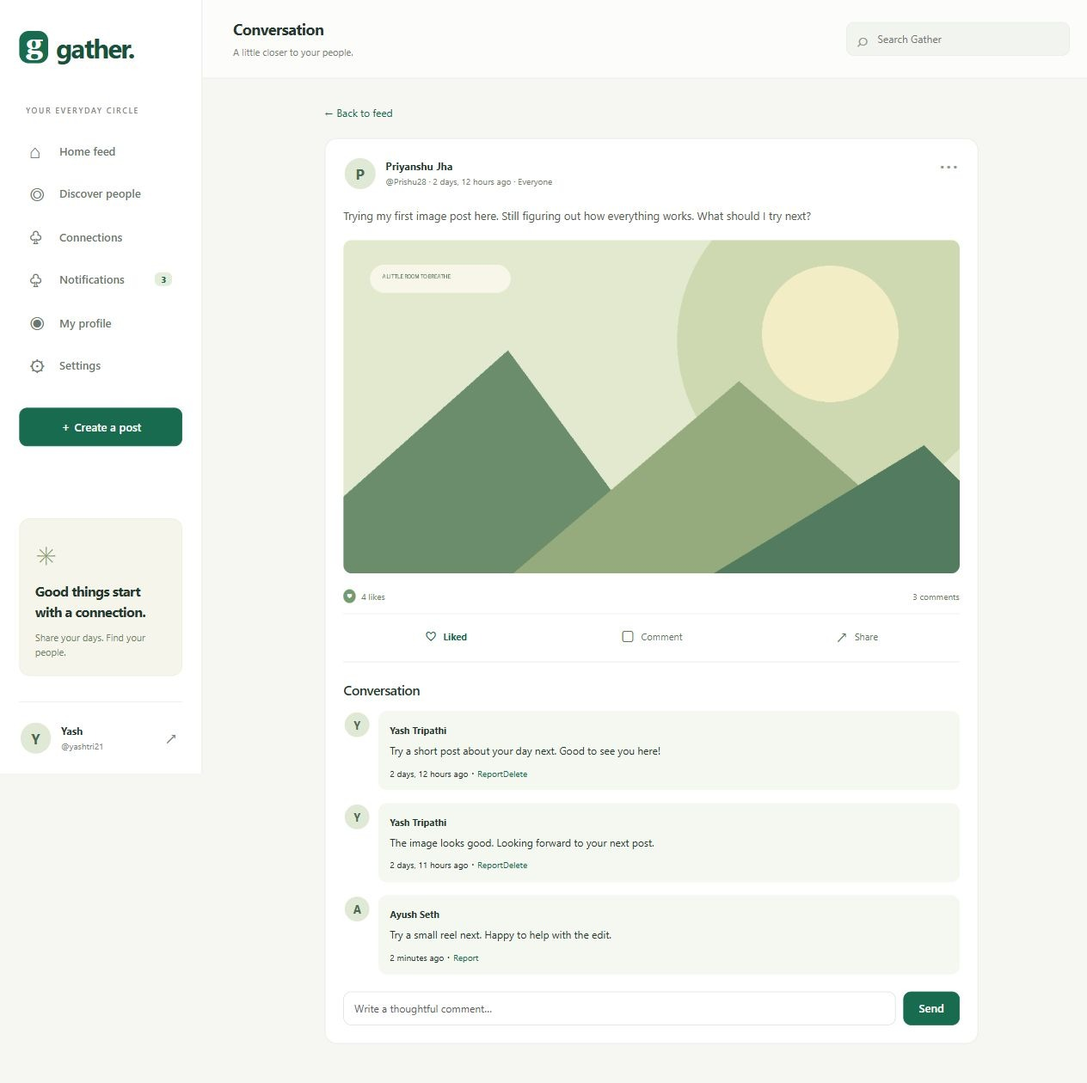
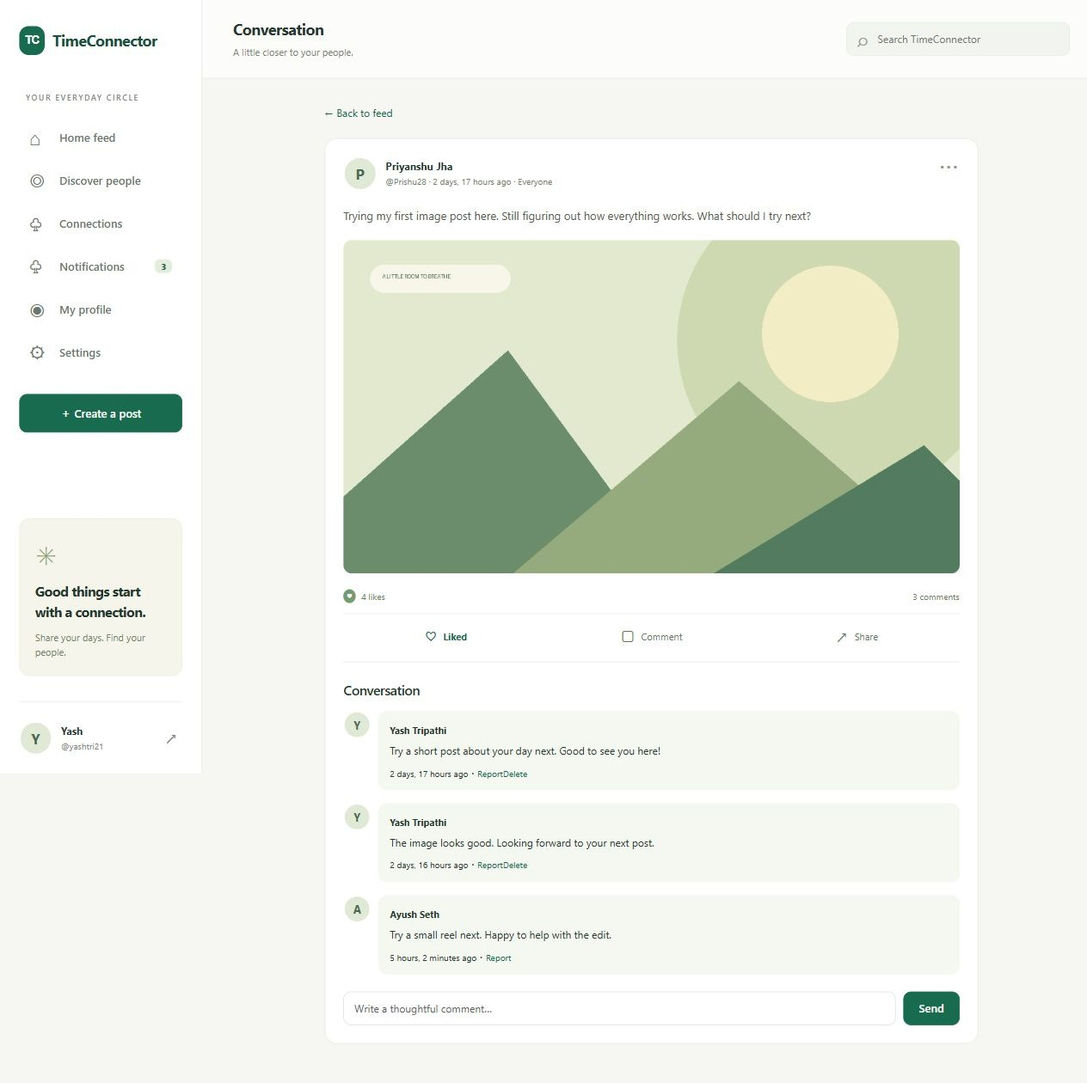
changes within the codes

diff --git a/Social Media Platform Django/static/css/app.css b/Social Media Platform Django/static/css/app.css
@@ -1,5 +1,5 @@
 :root{--green:#196b50;--green-dark:#10513c;--mint:#e9f2ec;--ink:#25382f;--muted:#7c877f;--line:#e5e9e3;--paper:#f6f7f3;--bs-primary:#196b50;--bs-link-color:#196b50;--bs-link-hover-color:#10513c}*{box-sizing:border-box}body{margin:0;background:var(--paper);color:var(--ink);font-family:Inter,"Segoe UI",sans-serif;font-size:14px;line-height:1.6}a{color:var(--green);text-decoration:none}a:hover{color:var(--green-dark)}button,input,textarea,select{font:inherit;outline-offset:4px}a{outline-offset:4px}button:focus-visible,a:focus-visible{outline:2px solid var(--green)}h1,h2,h3{letter-spacing:-.035em;font-weight:650}h1{font-size:30px}p{overflow-wrap:anywhere}.btn{border-radius:9px;font-weight:600;padding:9px 17px;font-size:13px}.btn-primary{background:var(--green);border-color:var(--green)}.btn-primary:hover,.btn-primary:active{background:var(--green-dark)!important;border-color:var(--green-dark)!important}.btn-outline-primary{color:var(--green);border-color:#c2d9ca}.btn-outline-primary:hover{background:var(--green);border-color:var(--green)}.btn-light{background:#f0f3ee;border-color:#f0f3ee;color:#4e6156}.form-control,.form-select{border-color:#dce3da;border-radius:9px;font-size:14px;padding:10px 12px}.form-control:focus{border-color:#8cb69c;box-shadow:0 0 0 3px #196b5012}.form-label{font-size:13px;font-weight:600}.form-text{font-size:12px;color:#748175}.text-muted{color:#738076!important}.surface{background:white;border:1px solid var(--line);border-radius:14px}
-.sidebar{width:235px;position:fixed;inset:0 auto 0 0;background:#fff;border-right:1px solid var(--line);padding:30px 22px 0;display:flex;flex-direction:column;z-index:20}.brand{font-size:31px;font-weight:750;letter-spacing:-1.6px;display:flex;align-items:center;gap:9px;color:#1a513d}.brand-mark{display:inline-flex;align-items:center;justify-content:center;background:var(--green);color:#fff;border-radius:11px;width:34px;height:37px;font-family:Georgia,serif;font-size:34px;line-height:1;padding-bottom:7px}.nav-label{font-size:9px;letter-spacing:1.6px;font-weight:600;color:#7b8776;margin:42px 8px 17px}.main-nav{display:grid;gap:6px}.main-nav>a{padding:11px 12px;display:flex;align-items:center;gap:13px;color:#6b776c;font-weight:550;font-size:13px;border-radius:9px;white-space:nowrap}.main-nav>a>span{font-size:22px;font-weight:400;width:22px;line-height:1}.main-nav>a:hover{background:#f6f8f4}.main-nav>a.active{background:var(--mint);color:var(--green)}.count-badge{background:#e4ecdc;color:var(--green);font-size:10px;min-width:20px;text-align:center;border-radius:6px;margin-left:auto}.compose-nav{margin-top:27px;padding:12px}.sidebar-note{background:#f5f5eb;border:1px solid #ececdd;border-radius:12px;padding:18px;margin-top:auto;margin-bottom:30px}.little-star{font-size:29px;color:#8b9b6b}.sidebar-note h3{font-size:16px;line-height:1.5;margin:8px 0}.sidebar-note p{font-size:11px;color:#737f69;margin:0}.sidebar-user{display:flex;align-items:center;gap:10px;border-top:1px solid var(--line);padding:22px 0}.sidebar-user>a{color:var(--ink);min-width:0;flex:1}.sidebar-user strong{display:block;font-size:12px}.sidebar-user small{display:block;font-size:10px;color:var(--muted)}.icon-button{border:0;background:transparent;color:#758176;font-size:20px}
+.sidebar{width:235px;position:fixed;inset:0 auto 0 0;background:#fff;border-right:1px solid var(--line);padding:30px 22px 0;display:flex;flex-direction:column;z-index:20}.brand{font-size:18px;font-weight:750;letter-spacing:-.6px;white-space:nowrap;display:flex;align-items:center;gap:9px;color:#1a513d}.brand-mark{display:inline-flex;align-items:center;justify-content:center;background:var(--green);color:#fff;border-radius:11px;width:30px;height:34px;flex-shrink:0;font-family:Arial,sans-serif;font-size:14px;font-weight:700;line-height:1}.nav-label{font-size:9px;letter-spacing:1.6px;font-weight:600;color:#7b8776;margin:42px 8px 17px}.main-nav{display:grid;gap:6px}.main-nav>a{padding:11px 12px;display:flex;align-items:center;gap:13px;color:#6b776c;font-weight:550;font-size:13px;border-radius:9px;white-space:nowrap}.main-nav>a>span{font-size:22px;font-weight:400;width:22px;line-height:1}.main-nav>a:hover{background:#f6f8f4}.main-nav>a.active{background:var(--mint);color:var(--green)}.count-badge{background:#e4ecdc;color:var(--green);font-size:10px;min-width:20px;text-align:center;border-radius:6px;margin-left:auto}.compose-nav{margin-top:27px;padding:12px}.sidebar-note{background:#f5f5eb;border:1px solid #ececdd;border-radius:12px;padding:18px;margin-top:auto;margin-bottom:30px}.little-star{font-size:29px;color:#8b9b6b}.sidebar-note h3{font-size:16px;line-height:1.5;margin:8px 0}.sidebar-note p{font-size:11px;color:#737f69;margin:0}.sidebar-user{display:flex;align-items:center;gap:10px;border-top:1px solid var(--line);padding:22px 0}.sidebar-user>a{color:var(--ink);min-width:0;flex:1}.sidebar-user strong{display:block;font-size:12px}.sidebar-user small{display:block;font-size:10px;color:var(--muted)}.icon-button{border:0;background:transparent;color:#758176;font-size:20px}
 .topbar{position:relative;min-height:91px;margin-left:235px;border-bottom:1px solid var(--line);background:#ffffffb0;display:flex;align-items:center;justify-content:space-between;padding:19px 36px}.topbar-title{display:block;font-size:18px;font-weight:650;letter-spacing:-.5px}.topbar-subtitle{font-size:11px;color:#788471}.top-search{background:#f1f4ef;border:1px solid #e9ede5;border-radius:9px;padding:8px 12px;display:flex;gap:9px;align-items:center;width:260px}.top-search span{font-size:22px;line-height:1;color:#8d988e}.top-search input{border:0;outline:0;background:transparent;min-width:0;width:100%;font-size:12px}.mobile-nav{display:none}.app-main{margin-left:235px;padding:28px 36px;max-width:1550px}.feed-layout{display:grid;grid-template-columns:minmax(0,1fr) 285px;gap:26px;max-width:1120px;margin:auto}.feed-column,.right-column{min-width:0}
 .welcome-banner{background:#eaf1e6;border:1px solid #dfe8d6;border-radius:14px;padding:23px 25px;margin-bottom:23px;display:flex;justify-content:space-between;overflow:hidden;position:relative}.eyebrow{font-size:9px;letter-spacing:1.8px;font-weight:700;color:#65805e}.welcome-banner h1{font-size:30px;margin:10px 0 6px;letter-spacing:-1.2px}.welcome-banner p{font-size:12px;color:#71836b;margin:0}.wave{color:#9da459;font-size:25px;display:inline-block;margin-left:7px}.banner-art{width:118px;position:relative;color:#91a56a;opacity:.65;flex-shrink:0}.banner-art span{position:absolute;font-size:94px;line-height:1;right:-5px;top:20px;transform:rotate(10deg)}.banner-art span:nth-child(2){font-size:45px;left:0;top:1px;color:#bcc18a}.composer{padding:19px 21px;margin-bottom:25px}.composer-heading{display:flex;align-items:center;gap:12px;margin-bottom:14px}.composer-heading strong{font-size:13px}.composer-heading .small{font-size:10px}.avatar{width:39px;height:39px;border-radius:50%;display:inline-flex;justify-content:center;align-items:center;flex-shrink:0;background:#e0e8d6;color:#4a6950;font-size:17px;font-weight:650;overflow:hidden;border:2px solid white}.avatar img{width:100%;height:100%;object-fit:cover}.avatar-lg{width:76px;height:76px;font-size:31px;border:4px solid white}.composer textarea{resize:vertical;border:0;background:#f7f8f5;min-height:85px;font-size:12px;padding:14px}.composer-footer{display:flex;align-items:center;gap:12px;border-top:1px solid #eef0eb;margin-top:16px;padding-top:14px}.composer-footer input[type=file]{max-width:115px;font-size:9px;color:#738268}.composer-footer input[type=file]::file-selector-button{display:none}.upload-label{color:#648167;font-size:16px;cursor:pointer;display:flex;gap:6px;align-items:center}.upload-label span{font-size:11px}.composer-footer select{font-size:10px;padding:5px 8px;background:transparent;color:#687a5e;border:1px solid #e7eae2;width:97px;margin-left:auto}.composer-footer .btn{font-size:11px;white-space:nowrap}.feed-controls{display:flex;justify-content:space-between;align-items:center;margin-bottom:17px;border-bottom:1px solid var(--line)}.feed-tabs{display:flex;gap:24px}.feed-tabs a{color:#76856b;padding:0 0 13px;font-size:12px;font-weight:600;border-bottom:2px solid transparent}.feed-tabs a.selected{color:var(--green);border-color:var(--green)}.feed-controls form{display:flex;gap:4px;align-items:center;padding-bottom:10px}.filter-select{border:0;background:transparent;color:#6e7d66;font-size:10px;max-width:80px}.filter-button{font-size:10px;color:var(--green);background:transparent;border:0}
 .post-card{padding:21px;margin-bottom:18px}.post-heading{display:flex;align-items:flex-start;justify-content:space-between;gap:8px}.person-link{display:flex;align-items:center;gap:10px;color:var(--ink);min-width:0}.person-link strong{display:block;font-size:12px;line-height:1.5}.person-link small{display:block;color:#75836c;font-size:10px}.post-menu{position:relative}.post-menu summary{list-style:none;color:#92998f;cursor:pointer;letter-spacing:2px}.post-menu>div{position:absolute;right:0;top:25px;background:white;box-shadow:0 4px 20px #25382f20;padding:8px;min-width:120px;z-index:5;border:1px solid var(--line);border-radius:9px}.post-menu a,.post-menu button{border:0;background:none;padding:5px;font-size:12px;display:block;color:var(--green)}.post-content{font-size:13px;line-height:1.85;margin:17px 0;color:#53604f;overflow-wrap:anywhere;white-space:normal}.post-image{width:100%;max-height:450px;object-fit:cover;border-radius:10px;margin-bottom:4px}.post-stats{display:flex;align-items:center;justify-content:space-between;color:#6d7e62;font-size:10px;padding:14px 0 12px}.post-stats a{color:inherit}.like-dot{color:white;background:#729b72;border-radius:50%;font-size:9px;padding:2px 4px;margin-right:4px}.post-actions{display:flex;justify-content:space-around;align-items:center;border-top:1px solid #ecefe8;padding-top:11px}.post-actions form{display:contents}.post-actions button,.post-actions a{background:none;border:0;font-size:11px;color:#64785b;display:flex;align-items:center;justify-content:center;gap:8px;flex:1;padding:5px;cursor:pointer;border-radius:7px}.post-actions button:hover,.post-actions a:hover{background:#f5f7f0}.post-actions span{font-size:19px;line-height:1}.post-actions button.liked{color:var(--green);font-weight:650}

diff --git a/Social Media Platform Django/templates/base.html b/Social Media Platform Django/templates/base.html
@@ -1,5 +1,5 @@
-{% load static %}<!doctype html><html lang="en"><head><meta charset="utf-8"><meta name="viewport" content="width=device-width,initial-scale=1"><meta name="theme-color" content="#196b50"><link rel="icon" href="{% static 'images/favicon.svg' %}"><title>{% block title %}Gather — A little closer{% endblock %}</title><link rel="stylesheet" href="{% static 'vendor/bootstrap.min.css' %}"><link rel="stylesheet" href="{% static 'css/app.css' %}"></head><body><a class="skip-link" href="#main">Skip to content</a>
-{% if user.is_authenticated %}<aside class="sidebar"><a class="brand" href="{% url 'feed' %}"><span class="brand-mark">g</span> gather.</a><p class="nav-label">YOUR EVERYDAY CIRCLE</p><nav class="main-nav" aria-label="Main navigation"><a href="{% url 'feed' %}" class="{% if request.resolver_match.url_name == 'feed' %}active{% endif %}"><span>⌂</span> Home feed</a><a href="{% url 'people' %}"><span>◎</span> Discover people</a><a href="{% url 'connections' %}"><span>♧</span> Connections</a><a href="{% url 'notifications' %}"><span>♧</span> Notifications <b class="count-badge" data-unread>{{ unread_count }}</b></a><a href="{% url 'profile' user.username %}"><span>◉</span> My profile</a><a href="{% url 'settings' %}"><span>⚙</span> Settings</a></nav><a class="btn btn-primary compose-nav" href="{% url 'post-create' %}">＋ Create a post</a><div class="sidebar-note"><span class="little-star">✳</span><h3>Good things start<br>with a connection.</h3><p>Share your days. Find your people.</p></div><div class="sidebar-user">{% include 'partials/avatar.html' with person=user %}<a href="{% url 'profile' user.username %}"><strong>{{ user.first_name|default:user.username }}</strong><small>@{{ user.username }}</small></a><form method="post" action="{% url 'logout' %}">{% csrf_token %}<button class="icon-button" aria-label="Log out">↗</button></form></div></aside>
-<header class="topbar"><div><span class="topbar-title">{% block page_name %}Home feed{% endblock %}</span><span class="topbar-subtitle">A little closer to your people.</span></div><form class="top-search" action="{% url 'feed' %}"><span aria-hidden="true">⌕</span><input type="search" name="q" aria-label="Search posts" placeholder="Search Gather" value="{{ query }}"><button class="visually-hidden">Search</button></form></header>{% endif %}
+{% load static %}<!doctype html><html lang="en"><head><meta charset="utf-8"><meta name="viewport" content="width=device-width,initial-scale=1"><meta name="theme-color" content="#196b50"><link rel="icon" href="{% static 'images/favicon.svg' %}?v=timeconnector-1"><title>{% block title %}TimeConnector — A little closer{% endblock %}</title><link rel="stylesheet" href="{% static 'vendor/bootstrap.min.css' %}"><link rel="stylesheet" href="{% static 'css/app.css' %}?v=timeconnector-1"></head><body><a class="skip-link" href="#main">Skip to content</a>
+{% if user.is_authenticated %}<aside class="sidebar"><a class="brand" href="{% url 'feed' %}"><span class="brand-mark" aria-hidden="true">TC</span> TimeConnector</a><p class="nav-label">YOUR EVERYDAY CIRCLE</p><nav class="main-nav" aria-label="Main navigation"><a href="{% url 'feed' %}" class="{% if request.resolver_match.url_name == 'feed' %}active{% endif %}"><span>⌂</span> Home feed</a><a href="{% url 'people' %}"><span>◎</span> Discover people</a><a href="{% url 'connections' %}"><span>♧</span> Connections</a><a href="{% url 'notifications' %}"><span>♧</span> Notifications <b class="count-badge" data-unread>{{ unread_count }}</b></a><a href="{% url 'profile' user.username %}"><span>◉</span> My profile</a><a href="{% url 'settings' %}"><span>⚙</span> Settings</a></nav><a class="btn btn-primary compose-nav" href="{% url 'post-create' %}">＋ Create a post</a><div class="sidebar-note"><span class="little-star">✳</span><h3>Good things start<br>with a connection.</h3><p>Share your days. Find your people.</p></div><div class="sidebar-user">{% include 'partials/avatar.html' with person=user %}<a href="{% url 'profile' user.username %}"><strong>{{ user.first_name|default:user.username }}</strong><small>@{{ user.username }}</small></a><form method="post" action="{% url 'logout' %}">{% csrf_token %}<button class="icon-button" aria-label="Log out">↗</button></form></div></aside>
+<header class="topbar"><div><span class="topbar-title">{% block page_name %}Home feed{% endblock %}</span><span class="topbar-subtitle">A little closer to your people.</span></div><form class="top-search" action="{% url 'feed' %}"><span aria-hidden="true">⌕</span><input type="search" name="q" aria-label="Search posts" placeholder="Search TimeConnector" value="{{ query }}"><button class="visually-hidden">Search</button></form></header>{% endif %}
 <main id="main" class="{% if user.is_authenticated %}app-main{% else %}auth-main{% endif %}">{% for message in messages %}<div role="status" class="alert {% if message.tags == 'error' %}alert-danger{% else %}alert-success{% endif %}">{{ message }}</div>{% endfor %}{% block content %}{% endblock %}</main>
-{% if user.is_authenticated %}<nav class="mobile-nav" aria-label="Mobile navigation"><a href="{% url 'feed' %}">Home</a><a href="{% url 'people' %}">People</a><a href="{% url 'post-create' %}">＋ Post</a><a href="{% url 'connections' %}">Circle</a><a href="{% url 'notifications' %}">Inbox</a><a href="{% url 'settings' %}">Settings</a></nav><div id="live-toast" class="live-toast" role="status" hidden></div><script src="{% static 'js/app.js' %}" defer></script>{% endif %}</body></html>
+{% if user.is_authenticated %}<nav class="mobile-nav" aria-label="Mobile navigation"><a href="{% url 'feed' %}">Home</a><a href="{% url 'people' %}">People</a><a href="{% url 'post-create' %}">＋ Post</a><a href="{% url 'connections' %}">Circle</a><a href="{% url 'notifications' %}">Inbox</a><a href="{% url 'settings' %}">Settings</a></nav><div id="live-toast" class="live-toast" role="status" hidden></div><script src="{% static 'js/app.js' %}?v=timeconnector-1" defer></script>{% endif %}</body></html>

diff --git a/Social Media Platform Django/templates/posts/feed.html b/Social Media Platform Django/templates/posts/feed.html
@@ -3,4 +3,4 @@
 <div class="feed-controls"><nav class="feed-tabs" aria-label="Feed filter"><a href="?tab=all" class="{% if tab == 'all' %}selected{% endif %}">For you</a><a href="?tab=following" class="{% if tab == 'following' %}selected{% endif %}">Following</a><a href="?tab=friends" class="{% if tab == 'friends' %}selected{% endif %}">Friends</a></nav><form><input type="hidden" name="tab" value="{{ tab }}"><input type="hidden" name="q" value="{{ query }}"><label class="visually-hidden" for="kind">Content type</label><select id="kind" name="kind" class="filter-select"><option value="">All posts</option><option value="photos" {% if kind == 'photos' %}selected{% endif %}>Photos</option></select><button class="filter-button">Filter</button></form></div>
 {% if query %}<p class="search-result">Results for “{{ query }}” <a href="{% url 'feed' %}">Clear search</a></p>{% endif %}{% for post in page_obj %}{% include 'partials/post.html' %}{% empty %}<div class="surface empty-state"><span>✳</span><h2>A fresh start for your feed</h2><p>{% if query %}No posts matched your search. Try another word.{% else %}Share your first story or discover people to follow.{% endif %}</p><a class="btn btn-primary" href="{% url 'people' %}">Find your people</a></div>{% endfor %}{% include 'partials/pagination.html' %}<p class="feed-end">You’re in good company. Make yourself at home.</p></div>
 <aside class="right-column"><section class="surface mini-profile"><div class="mini-cover" aria-hidden="true">✳ &nbsp; ✷</div>{% include 'partials/avatar.html' with person=user large=True %}<h2>{{ user.get_full_name|default:user.username }}</h2><p>@{{ user.username }}</p><p class="mini-bio">{{ user.profile.bio|default:"A little about you goes a long way."|truncatechars:90 }}</p><div class="profile-stats"><div><b>{{ own_posts }}</b><span>Posts</span></div><div><b>{{ followers }}</b><span>Followers</span></div><div><b>{{ following }}</b><span>Following</span></div></div><a class="profile-link" href="{% url 'profile' user.username %}">View my profile →</a></section>
-<section class="surface suggestions"><div class="section-heading"><h2>People to know</h2><a href="{% url 'people' %}">See all</a></div><p class="small text-muted">A familiar face could be one hello away.</p>{% for person in suggestions %}<div class="suggestion-row"><a class="person-link" href="{% url 'profile' person.username %}">{% include 'partials/avatar.html' %}<span><strong>{{ person.get_full_name|default:person.username }}</strong><small>{{ person.profile.location|default:"New to your circle" }}</small></span></a><form method="post" action="{% url 'connection-action' person.pk 'follow' %}">{% csrf_token %}<button class="follow-button" aria-label="Follow {{ person.username }}">＋</button></form></div>{% empty %}<p class="small">You’re all caught up. Invite a friend to Gather.</p>{% endfor %}</section><div class="community-note"><span>☀</span><h3>A kinder corner of the internet.</h3><p>Be curious. Be yourself.<br>Leave people better than you found them.</p><a href="{% url 'settings' %}">Your privacy, your choice ↗</a></div><footer class="app-footer"><a href="{% url 'settings' %}">Privacy settings</a> · <a href="{% url 'people' %}">Community</a><p>© {% now "Y" %} Gather. Made for connection.</p></footer></aside></div>{% endblock %}
+<section class="surface suggestions"><div class="section-heading"><h2>People to know</h2><a href="{% url 'people' %}">See all</a></div><p class="small text-muted">A familiar face could be one hello away.</p>{% for person in suggestions %}<div class="suggestion-row"><a class="person-link" href="{% url 'profile' person.username %}">{% include 'partials/avatar.html' %}<span><strong>{{ person.get_full_name|default:person.username }}</strong><small>{{ person.profile.location|default:"New to your circle" }}</small></span></a><form method="post" action="{% url 'connection-action' person.pk 'follow' %}">{% csrf_token %}<button class="follow-button" aria-label="Follow {{ person.username }}">＋</button></form></div>{% empty %}<p class="small">You’re all caught up. Invite a friend to TimeConnector.</p>{% endfor %}</section><div class="community-note"><span>☀</span><h3>A kinder corner of the internet.</h3><p>Be curious. Be yourself.<br>Leave people better than you found them.</p><a href="{% url 'settings' %}">Your privacy, your choice ↗</a></div><footer class="app-footer"><a href="{% url 'settings' %}">Privacy settings</a> · <a href="{% url 'people' %}">Community</a><p>© {% now "Y" %} TimeConnector. Made for connection.</p></footer></aside></div>{% endblock %}

diff --git a/Social Media Platform Django/templates/registration/login.html b/Social Media Platform Django/templates/registration/login.html
@@ -1,1 +1,1 @@
-{% extends 'base.html' %}{% block content %}<div class="auth-shell"><section class="auth-story"><a class="brand" href="{% url 'login' %}"><span class="brand-mark">g</span> gather.</a><span class="auth-flower" aria-hidden="true">✳</span><h1>Your people.<br>Your stories.<br>A little closer.</h1><p>A space for everyday moments and meaningful connections.</p><small>LESS SCROLLING PAST. MORE REACHING OUT.</small></section><section class="auth-form"><span class="eyebrow">GOOD TO SEE YOU AGAIN</span><h2>Welcome back.</h2><p class="text-muted">Your circle is waiting for you.</p><form method="post">{% csrf_token %}{% if form.errors %}<div class="alert alert-danger" role="alert">Your username or password is incorrect.</div>{% endif %}<label class="form-label" for="username">Username</label><input id="username" name="username" class="form-control mb-3" autocomplete="username" required autofocus><label class="form-label" for="password">Password</label><input id="password" name="password" type="password" class="form-control mb-4" autocomplete="current-password" required><input type="hidden" name="next" value="{{ next }}"><button class="btn btn-primary w-100">Log in →</button></form><p class="mt-4 small">New around here? <a href="{% url 'signup' %}">Create an account</a></p></section></div>{% endblock %}
+{% extends 'base.html' %}{% block content %}<div class="auth-shell"><section class="auth-story"><a class="brand" href="{% url 'login' %}"><span class="brand-mark" aria-hidden="true">TC</span> TimeConnector</a><span class="auth-flower" aria-hidden="true">✳</span><h1>Your people.<br>Your stories.<br>A little closer.</h1><p>A space for everyday moments and meaningful connections.</p><small>LESS SCROLLING PAST. MORE REACHING OUT.</small></section><section class="auth-form"><span class="eyebrow">GOOD TO SEE YOU AGAIN</span><h2>Welcome back.</h2><p class="text-muted">Your circle is waiting for you.</p><form method="post">{% csrf_token %}{% if form.errors %}<div class="alert alert-danger" role="alert">Your username or password is incorrect.</div>{% endif %}<label class="form-label" for="username">Username</label><input id="username" name="username" class="form-control mb-3" autocomplete="username" required autofocus><label class="form-label" for="password">Password</label><input id="password" name="password" type="password" class="form-control mb-4" autocomplete="current-password" required><input type="hidden" name="next" value="{{ next }}"><button class="btn btn-primary w-100">Log in →</button></form><p class="mt-4 small">New around here? <a href="{% url 'signup' %}">Create an account</a></p></section></div>{% endblock %}

diff --git a/Social Media Platform Django/templates/registration/signup.html b/Social Media Platform Django/templates/registration/signup.html
@@ -1,1 +1,1 @@
-{% extends 'base.html' %}{% block content %}<section class="surface auth-signup"><a class="brand" href="{% url 'login' %}">gather.</a><span class="eyebrow d-block mt-4">THERE’S ROOM FOR YOU HERE</span><h1>Find your circle.</h1><p class="text-muted">Create your account and make yourself at home.</p><form method="post">{% csrf_token %}{% include 'partials/form_fields.html' %}<button class="btn btn-primary w-100">Create account →</button></form><p class="mt-3 small">Already part of Gather? <a href="{% url 'login' %}">Log in</a></p></section>{% endblock %}
+{% extends 'base.html' %}{% block content %}<section class="surface auth-signup"><a class="brand" href="{% url 'login' %}"><span class="brand-mark" aria-hidden="true">TC</span> TimeConnector</a><span class="eyebrow d-block mt-4">THERE’S ROOM FOR YOU HERE</span><h1>Find your circle.</h1><p class="text-muted">Create your account and make yourself at home.</p><form method="post">{% csrf_token %}{% include 'partials/form_fields.html' %}<button class="btn btn-primary w-100">Create account →</button></form><p class="mt-3 small">Already part of TimeConnector? <a href="{% url 'login' %}">Log in</a></p></section>{% endblock %}

diff --git a/Social Media Platform Django/templates/posts/report.html b/Social Media Platform Django/templates/posts/report.html
@@ -1,1 +1,1 @@
-{% extends 'base.html' %}{% block page_name %}Report content{% endblock %}{% block content %}<section class="surface form-panel"><h1>Help keep Gather kind.</h1><p class="text-muted">Tell our moderators what’s wrong. Reporting does not automatically hide content.</p><form method="post">{% csrf_token %}<label for="reason" class="form-label">Reason for reporting</label><textarea id="reason" name="reason" class="form-control mb-3" rows="5" maxlength="1000" required></textarea><button class="btn btn-primary">Submit report</button></form></section>{% endblock %}
+{% extends 'base.html' %}{% block page_name %}Report content{% endblock %}{% block content %}<section class="surface form-panel"><h1>Help keep TimeConnector kind.</h1><p class="text-muted">Tell our moderators what’s wrong. Reporting does not automatically hide content.</p><form method="post">{% csrf_token %}<label for="reason" class="form-label">Reason for reporting</label><textarea id="reason" name="reason" class="form-control mb-3" rows="5" maxlength="1000" required></textarea><button class="btn btn-primary">Submit report</button></form></section>{% endblock %}

diff --git a/Social Media Platform Django/static/js/app.js b/Social Media Platform Django/static/js/app.js
@@ -10,7 +10,7 @@
   }));
   document.querySelectorAll('[data-share]').forEach(button => button.addEventListener('click', async () => {
     try {
-      if (navigator.share) await navigator.share({url: button.dataset.share, title: 'A story on Gather'});
+      if (navigator.share) await navigator.share({url: button.dataset.share, title: 'A story on TimeConnector'});
       else { await navigator.clipboard.writeText(button.dataset.share); show('Post link copied. Privacy settings still apply.'); }
     } catch (error) { if (error.name !== 'AbortError') show('Copy this post’s browser address to share it.'); }
   }));

diff --git a/Social Media Platform Django/templates/403.html b/Social Media Platform Django/templates/403.html
@@ -1,1 +1,1 @@
-{% extends 'base.html' %}{% block content %}<div class="surface empty-state"><h1>This action is unavailable.</h1><p>You don’t have permission, or your session needs refreshing.</p><a href="{% url 'feed' %}" class="btn btn-primary">Back to Gather</a></div>{% endblock %}
+{% extends 'base.html' %}{% block content %}<div class="surface empty-state"><h1>This action is unavailable.</h1><p>You don’t have permission, or your session needs refreshing.</p><a href="{% url 'feed' %}" class="btn btn-primary">Back to TimeConnector</a></div>{% endblock %}

diff --git a/Social Media Platform Django/templates/404.html b/Social Media Platform Django/templates/404.html
@@ -1,1 +1,1 @@
-{% extends 'base.html' %}{% block content %}<div class="surface empty-state"><h1>This page is out of reach.</h1><p>It may have moved or its audience may have changed.</p><a href="{% url 'feed' %}" class="btn btn-primary">Back to Gather</a></div>{% endblock %}
+{% extends 'base.html' %}{% block content %}<div class="surface empty-state"><h1>This page is out of reach.</h1><p>It may have moved or its audience may have changed.</p><a href="{% url 'feed' %}" class="btn btn-primary">Back to TimeConnector</a></div>{% endblock %}

diff --git a/Social Media Platform Django/users/management/commands/seed_demo.py b/Social Media Platform Django/users/management/commands/seed_demo.py
@@ -70,4 +70,4 @@ class Command(BaseCommand):
             Comment.objects.get_or_create(post=posts[story_index], author=users[username], content=content)
         Notification.objects.get_or_create(recipient=primary, actor=reel_maker, verb='sent you a friend request')
         Notification.objects.get_or_create(recipient=primary, actor=newcomer, verb='started following you')
-        self.stdout.write(self.style.SUCCESS('Demo data ready. Sign in as yashtri21 with the password you supplied.'))
+        self.stdout.write(self.style.SUCCESS('TimeConnector demo data ready. Sign in as yashtri21 with the password you supplied.'))

diff --git a/Social Media Platform Django/social_platform/settings.py b/Social Media Platform Django/social_platform/settings.py
@@ -102,7 +102,7 @@ SECURE_REDIRECT_EXEMPT = [r'^health/$']
 
 CACHES = {'default': {'BACKEND': 'django.core.cache.backends.locmem.LocMemCache'}}
 if REDIS_URL:
-    CACHES = {'default': {'BACKEND': 'django.core.cache.backends.redis.RedisCache', 'LOCATION': REDIS_URL, 'KEY_PREFIX': 'gather'}}
+    CACHES = {'default': {'BACKEND': 'django.core.cache.backends.redis.RedisCache', 'LOCATION': REDIS_URL, 'KEY_PREFIX': 'timeconnector'}}
 
 if not DEBUG and DATABASES['default']['ENGINE'] != 'django.db.backends.postgresql':
     raise ImproperlyConfigured('Use PostgreSQL for the production database.')

diff --git a/Social Media Platform Django/social_platform/urls.py b/Social Media Platform Django/social_platform/urls.py
@@ -36,5 +36,5 @@ urlpatterns = [
     path('notifications/<int:pk>/read/', notification_views.mark_read, name='notification-read'),
     path('api/', include('api.urls')),
 ]
-admin.site.site_header = 'Gather moderation'
-admin.site.site_title = 'Gather admin'
+admin.site.site_header = 'TimeConnector moderation'
+admin.site.site_title = 'TimeConnector admin'
